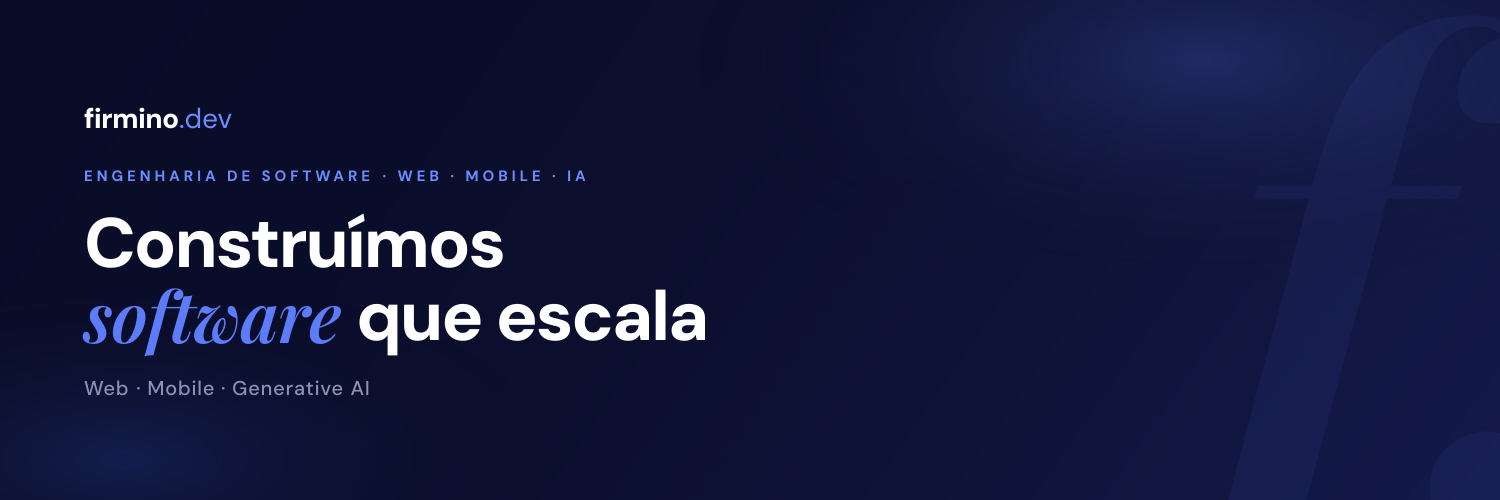
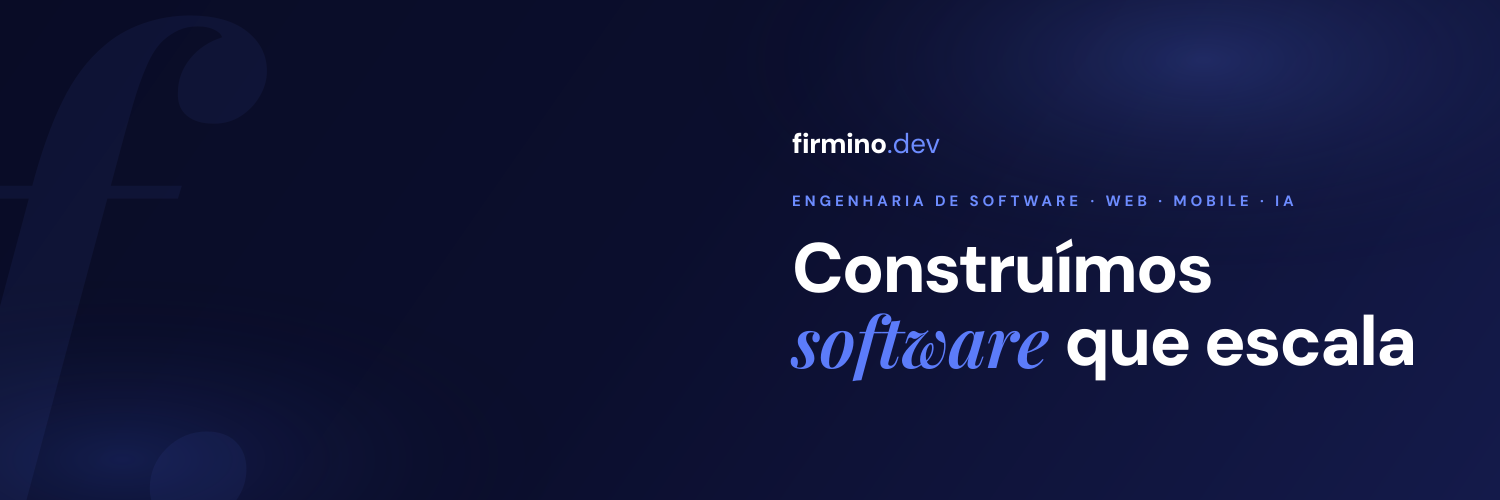
feat: new og social medias and images

diff --git a/src/app/blog/[slug]/opengraph-image.tsx b/src/app/blog/[slug]/opengraph-image.tsx
@@ -1,0 +1,107 @@
+import { ImageResponse } from "next/og";
+import { getFonts } from "@/app/social/_lib/fonts";
+import { C, COPY } from "@/app/social/_lib/brand";
+import { getPostBySlug } from "@/lib/blog";
+
+// nodejs (não edge): getPostBySlug lê o MDX do filesystem
+export const alt = "Artigo do blog da firmino.dev";
+export const size = { width: 1200, height: 630 };
+export const contentType = "image/png";
+
+const DATE_FORMATTER = new Intl.DateTimeFormat("pt-BR", {
+  day: "2-digit",
+  month: "long",
+  year: "numeric",
+});
+
+function formatDate(iso: string): string {
+  const [y, m, d] = iso.split("-").map(Number);
+  return DATE_FORMATTER.format(new Date(y, (m ?? 1) - 1, d ?? 1));
+}
+
+export default async function OpenGraphImage({
+  params,
+}: {
+  params: Promise<{ slug: string }>;
+}) {
+  const { slug } = await params;
+  const post = getPostBySlug(slug);
+  const fonts = await getFonts();
+
+  const title = post?.title ?? "Blog da firmino.dev";
+  const eyebrow = post?.tags?.[0]
+    ? `Blog · ${post.tags[0]}`
+    : "Blog · Engenharia de Software";
+  const footerLeft = post
+    ? `${formatDate(post.date)} · ${post.readingTime.replace("read", "de leitura")}`
+    : COPY.footerLeft;
+
+  return new ImageResponse(
+    (
+      <div
+        style={{
+          width: "100%",
+          height: "100%",
+          display: "flex",
+          flexDirection: "column",
+          justifyContent: "space-between",
+          padding: "72px 80px",
+          background:
+            `radial-gradient(ellipse at top right, #1a2160 0%, transparent 55%),` +
+            `radial-gradient(ellipse at bottom left, #2a1f5e 0%, transparent 60%), ${C.bgB}`,
+          color: "#e4e6f2",
+          fontFamily: "DM Sans",
+        }}
+      >
+        <div style={{ display: "flex", alignItems: "center", gap: 4 }}>
+          <span style={{ fontSize: 36, fontWeight: 800, color: C.white, letterSpacing: -1 }}>
+            firmino
+          </span>
+          <span style={{ fontSize: 36, fontWeight: 400, color: C.accentDeep }}>.dev</span>
+        </div>
+
+        <div style={{ display: "flex", flexDirection: "column", gap: 24 }}>
+          <div
+            style={{
+              fontSize: 16,
+              fontWeight: 700,
+              color: C.accent,
+              letterSpacing: 4,
+              textTransform: "uppercase",
+            }}
+          >
+            {eyebrow}
+          </div>
+          <div
+            style={{
+              fontSize: title.length > 60 ? 54 : 64,
+              fontWeight: 700,
+              color: C.white,
+              lineHeight: 1.12,
+              letterSpacing: -2,
+              maxWidth: 1000,
+            }}
+          >
+            {title}
+          </div>
+        </div>
+
+        <div
+          style={{
+            display: "flex",
+            justifyContent: "space-between",
+            alignItems: "center",
+            paddingTop: 28,
+            borderTop: `1px solid ${C.border}`,
+            color: C.footer,
+            fontSize: 18,
+          }}
+        >
+          <span>{footerLeft}</span>
+          <span style={{ color: C.accentDeep }}>firmino.dev/blog</span>
+        </div>
+      </div>
+    ),
+    { ...size, fonts },
+  );
+}

diff --git a/src/app/social/banner/route.tsx b/src/app/social/banner/route.tsx
@@ -8,10 +8,12 @@ export const runtime = "nodejs";
  * Bold-typographic hero banner, rendered at the right dimensions per network.
  *   GET /social/banner?format=linkedin | twitter | instagram | cover
  *
- * `footer` formats (square/2:1) have room for the credibility strip; the short
- * wide banners (linkedin/twitter) drop it and keep the wordmark + headline as a
- * vertically-centred group, clearing the profile photo that those platforms
- * overlay on the bottom-left.
+ * `footer` formats (square/2:1) have room for the credibility strip and keep
+ * the content left-aligned. The short wide banners (linkedin/twitter) drop the
+ * strip and the subline (redundant with the eyebrow) and anchor everything to
+ * the RIGHT: both platforms overlay the profile photo on the left of the
+ * cover, so the whole left region is unsafe for text — the decorative
+ * watermark moves there instead.
  */
 
 type Format = {
@@ -37,6 +39,8 @@ export async function GET(req: Request) {
   const { searchParams } = new URL(req.url);
   const key = searchParams.get("format") || "cover";
   const f = FORMATS[key] ?? FORMATS.cover;
+  // Wide banners (no footer): profile avatar overlays the left → content goes right
+  const wide = !f.footer;
   const fonts = await getFonts();
 
   const Wordmark = (
@@ -78,15 +82,29 @@ export async function GET(req: Request) {
         </div>
       </div>
 
-      <span style={{ fontFamily: "DM Sans", fontWeight: 500, fontSize: f.sb, color: C.muted, letterSpacing: f.sb * 0.04, marginTop: f.hl * 0.34 }}>
-        {COPY.subline}
-      </span>
+      {/* Subline only on footer formats — on the wide banners it just repeated the eyebrow */}
+      {!wide && (
+        <span style={{ fontFamily: "DM Sans", fontWeight: 500, fontSize: f.sb, color: C.muted, letterSpacing: f.sb * 0.04, marginTop: f.hl * 0.34 }}>
+          {COPY.subline}
+        </span>
+      )}
     </div>
   );
 
   const Watermark = (
-    <div style={{ position: "absolute", top: 0, left: 0, right: 0, bottom: 0, display: "flex", alignItems: "center", justifyContent: "flex-end" }}>
-      <span style={{ fontFamily: "Playfair Display", fontStyle: "italic", fontWeight: 600, fontSize: f.wmark, lineHeight: 1, color: C.accentDeep, opacity: 0.07, marginRight: -f.wmark * 0.16 }}>
+    <div style={{ position: "absolute", top: 0, left: 0, right: 0, bottom: 0, display: "flex", alignItems: "center", justifyContent: wide ? "flex-start" : "flex-end" }}>
+      <span
+        style={{
+          fontFamily: "Playfair Display",
+          fontStyle: "italic",
+          fontWeight: 600,
+          fontSize: f.wmark,
+          lineHeight: 1,
+          color: C.accentDeep,
+          opacity: 0.07,
+          ...(wide ? { marginLeft: -f.wmark * 0.1 } : { marginRight: -f.wmark * 0.16 }),
+        }}
+      >
         f.
       </span>
     </div>
@@ -116,7 +134,9 @@ export async function GET(req: Request) {
   );
 
   // Footer formats: wordmark pinned top, footer pinned bottom, headline centred.
-  // No-footer formats: wordmark + headline as one centred group.
+  // Wide formats: wordmark + headline as one left-aligned column, with the
+  // column itself anchored to the right — the left of the cover sits under the
+  // profile avatar on LinkedIn/X.
   const root = f.footer ? (
     <div style={{ position: "relative", width: "100%", height: "100%", display: "flex", flexDirection: "column", justifyContent: "center", padding: f.pad, background: bannerBackground }}>
       {Watermark}
@@ -125,10 +145,12 @@ export async function GET(req: Request) {
       {Footer}
     </div>
   ) : (
-    <div style={{ position: "relative", width: "100%", height: "100%", display: "flex", flexDirection: "column", justifyContent: "center", gap: f.h * 0.06, padding: f.pad, background: bannerBackground }}>
+    <div style={{ position: "relative", width: "100%", height: "100%", display: "flex", flexDirection: "column", justifyContent: "center", alignItems: "flex-end", padding: f.pad, background: bannerBackground }}>
       {Watermark}
-      {Wordmark}
-      {Main}
+      <div style={{ display: "flex", flexDirection: "column", alignItems: "flex-start", gap: f.h * 0.06 }}>
+        {Wordmark}
+        {Main}
+      </div>
     </div>
   );
 

diff --git a/src/app/layout.tsx b/src/app/layout.tsx
@@ -36,6 +36,12 @@ export const viewport: Viewport = {
 
 const THEME_INIT_SCRIPT = `(function(){try{var t=localStorage.getItem('firmino-theme');if(t==='light'){document.documentElement.setAttribute('data-theme','light');}}catch(e){}})();`;
 
+// Stub síncrono do gtag: precisa existir antes de qualquer clique para que
+// trackEvent() enfileire no dataLayer enquanto o gtag.js (lazyOnload) não chega.
+const GA_STUB_SCRIPT = GA_ID
+  ? `window.dataLayer=window.dataLayer||[];window.gtag=function(){dataLayer.push(arguments);};gtag('js',new Date());gtag('config','${GA_ID}',{send_page_view:true});`
+  : null;
+
 export const metadata: Metadata = {
   metadataBase: new URL(SITE_URL),
   title: {
@@ -100,7 +106,8 @@ const ORG_JSON_LD = {
   "@type": "Organization",
   name: "firmino.dev",
   url: SITE_URL,
-  logo: `${SITE_URL}/icon.png`,
+  // /apple-icon (180×180) — o Google exige logo ≥112px; /icon tem só 32px e /icon.png não existe
+  logo: `${SITE_URL}/apple-icon`,
   description:
     "Empresa de engenharia de software especializada em Angular, React, React Native, Next.js, Node.js e Generative AI & LLM Applications.",
   slogan: "Construímos software. Reforçamos times.",
@@ -145,6 +152,9 @@ export default function RootLayout({
     <html lang="pt-BR" className={`${dmSans.variable} ${playfair.variable}`} suppressHydrationWarning>
       <head>
         <script dangerouslySetInnerHTML={{ __html: THEME_INIT_SCRIPT }} />
+        {GA_STUB_SCRIPT && (
+          <script dangerouslySetInnerHTML={{ __html: GA_STUB_SCRIPT }} />
+        )}
       </head>
       <body suppressHydrationWarning className="bg-bg text-text-main min-h-screen font-sans overflow-x-hidden">
         {children}
@@ -159,18 +169,10 @@ export default function RootLayout({
           dangerouslySetInnerHTML={{ __html: JSON.stringify(WEBSITE_JSON_LD) }}
         />
         {GA_ID && (
-          <>
-            <Script
-              src={`https://www.googletagmanager.com/gtag/js?id=${GA_ID}`}
-              strategy="lazyOnload"
-            />
-            <Script id="ga-init" strategy="lazyOnload">
-              {`window.dataLayer = window.dataLayer || [];
-function gtag(){dataLayer.push(arguments);}
-gtag('js', new Date());
-gtag('config', '${GA_ID}', { send_page_view: true });`}
-            </Script>
-          </>
+          <Script
+            src={`https://www.googletagmanager.com/gtag/js?id=${GA_ID}`}
+            strategy="lazyOnload"
+          />
         )}
       </body>
     </html>

diff --git a/src/app/blog/[slug]/page.tsx b/src/app/blog/[slug]/page.tsx
@@ -32,8 +32,9 @@ export async function generateMetadata({ params }: BlogPostProps): Promise<Metad
 
   const ogTitle = `${post.title} · firmino.dev`;
   const path = `/blog/${post.slug}`;
-  const ogImage = post.cover ? [absoluteUrl(post.cover)] : undefined;
 
+  // og:image vem do opengraph-image.tsx do segmento (PNG dinâmico por post).
+  // O cover SVG não entra aqui: LinkedIn/WhatsApp não renderizam SVG em preview.
   return {
     title: post.title,
     description: post.description,
@@ -46,13 +47,11 @@ export async function generateMetadata({ params }: BlogPostProps): Promise<Metad
       publishedTime: post.date,
       authors: post.author ? [post.author] : undefined,
       tags: post.tags,
-      ...(ogImage && { images: ogImage }),
     },
     twitter: {
       card: "summary_large_image",
       title: ogTitle,
       description: post.description,
-      ...(ogImage && { images: ogImage }),
     },
   };
 }
@@ -95,9 +94,9 @@ export default async function BlogPostPage({ params }: BlogPostProps) {
       "@type": "Organization",
       name: "firmino.dev",
       url: SITE_URL,
-      logo: { "@type": "ImageObject", url: absoluteUrl("/icon.png") },
+      logo: { "@type": "ImageObject", url: absoluteUrl("/apple-icon") },
     },
-    ...(post.cover && { image: absoluteUrl(post.cover) }),
+    image: absoluteUrl(`/blog/${post.slug}/opengraph-image`),
     ...(post.tags && { keywords: post.tags.join(", ") }),
   };
 

diff --git a/src/data/portfolio.ts b/src/data/portfolio.ts
@@ -276,7 +276,7 @@ export const PROJECTS: Project[] = [
 
 export const PAST_CLIENTS: PastClient[] = [
   { company: "zFlow", period: "2017 – 2018", detail: "Aplicações de financiamento e simulação para o Banco Itaú. Cobertura de testes 0% → 80%." },
-  { company: "Grupo Pão de Açucar", period: "2016 – 2017", detail: "Apps híbridos: Casas Bahia, Pontofrio e Extra." },
+  { company: "Grupo Pão de Açúcar", period: "2016 – 2017", detail: "Apps híbridos: Casas Bahia, Pontofrio e Extra." },
   { company: "Reclame Aqui", period: "2015 – 2016", detail: "Novo portal da plataforma. MVP mobile com Ionic e Angular." },
   { company: "ViajaNet", period: "2014 – 2015", detail: "Plataforma de passagens aéreas + serviço Quando Viajar." },
   { company: "Walmart.com", period: "2014 – 2014", detail: "Marketplace: gerenciamento de sellers terceiros." },
@@ -319,7 +319,7 @@ export const CLIENTS: ClientBrand[] = [
   { name: "UOL", logo: "/images/logos/uol.webp" },
   { name: "Reclame Aqui", logo: "/images/logos/reclameaqui.webp" },
   { name: "ViajaNet", logo: "/images/logos/viajanet.webp" },
-  { name: "Grupo Pão de Açucar", logo: "/images/logos/gpa.webp" },
+  { name: "Grupo Pão de Açúcar", logo: "/images/logos/gpa.webp" },
 ];
 
 export const CONTACT = {

diff --git a/src/app/social/_lib/fonts.ts b/src/app/social/_lib/fonts.ts
@@ -11,7 +11,8 @@
 const ALPHABET =
   "ABCDEFGHIJKLMNOPQRSTUVWXYZabcdefghijklmnopqrstuvwxyz" +
   "ÀÁÂÃÉÊÍÓÔÕÚÇàáâãéêíóôõúç" +
-  "0123456789 .,:;·/+-–&()'";
+  "0123456789 .,:;·/+-–&()'" +
+  '?!"“”‘’—%';
 
 type FontStyle = "normal" | "italic";
 

diff --git a/src/app/sobre/page.tsx b/src/app/sobre/page.tsx
@@ -85,7 +85,7 @@ const TIMELINE = [
   {
     year: "2012 – 2016",
     title: "Produto e escala",
-    desc: "Carreira em produtos de alto tráfego: UOL, Walmart, ViajaNet, Reclame Aqui, Grupo Pão de Açucar. Ionic, AngularJS, Node em ambiente real.",
+    desc: "Carreira em produtos de alto tráfego: UOL, Walmart, ViajaNet, Reclame Aqui, Grupo Pão de Açúcar. Ionic, AngularJS, Node em ambiente real.",
   },
   {
     year: "2016 – 2020",

diff --git a/src/components/home/Testimonials.tsx b/src/components/home/Testimonials.tsx
@@ -22,7 +22,7 @@ const TESTIMONIALS: Testimonial[] = [
       "O app foi publicado nas lojas sem dor de cabeça e virou nosso principal canal de pedido. O cliente abre, pede e volta, e a gente acompanha tudo pelo painel.",
     name: "André Teixeira",
     role: "Gerente de Projetos",
-    company: "Pão de Açucar · App Mobile",
+    company: "Pão de Açúcar · App Mobile",
   },
   {
     quote: